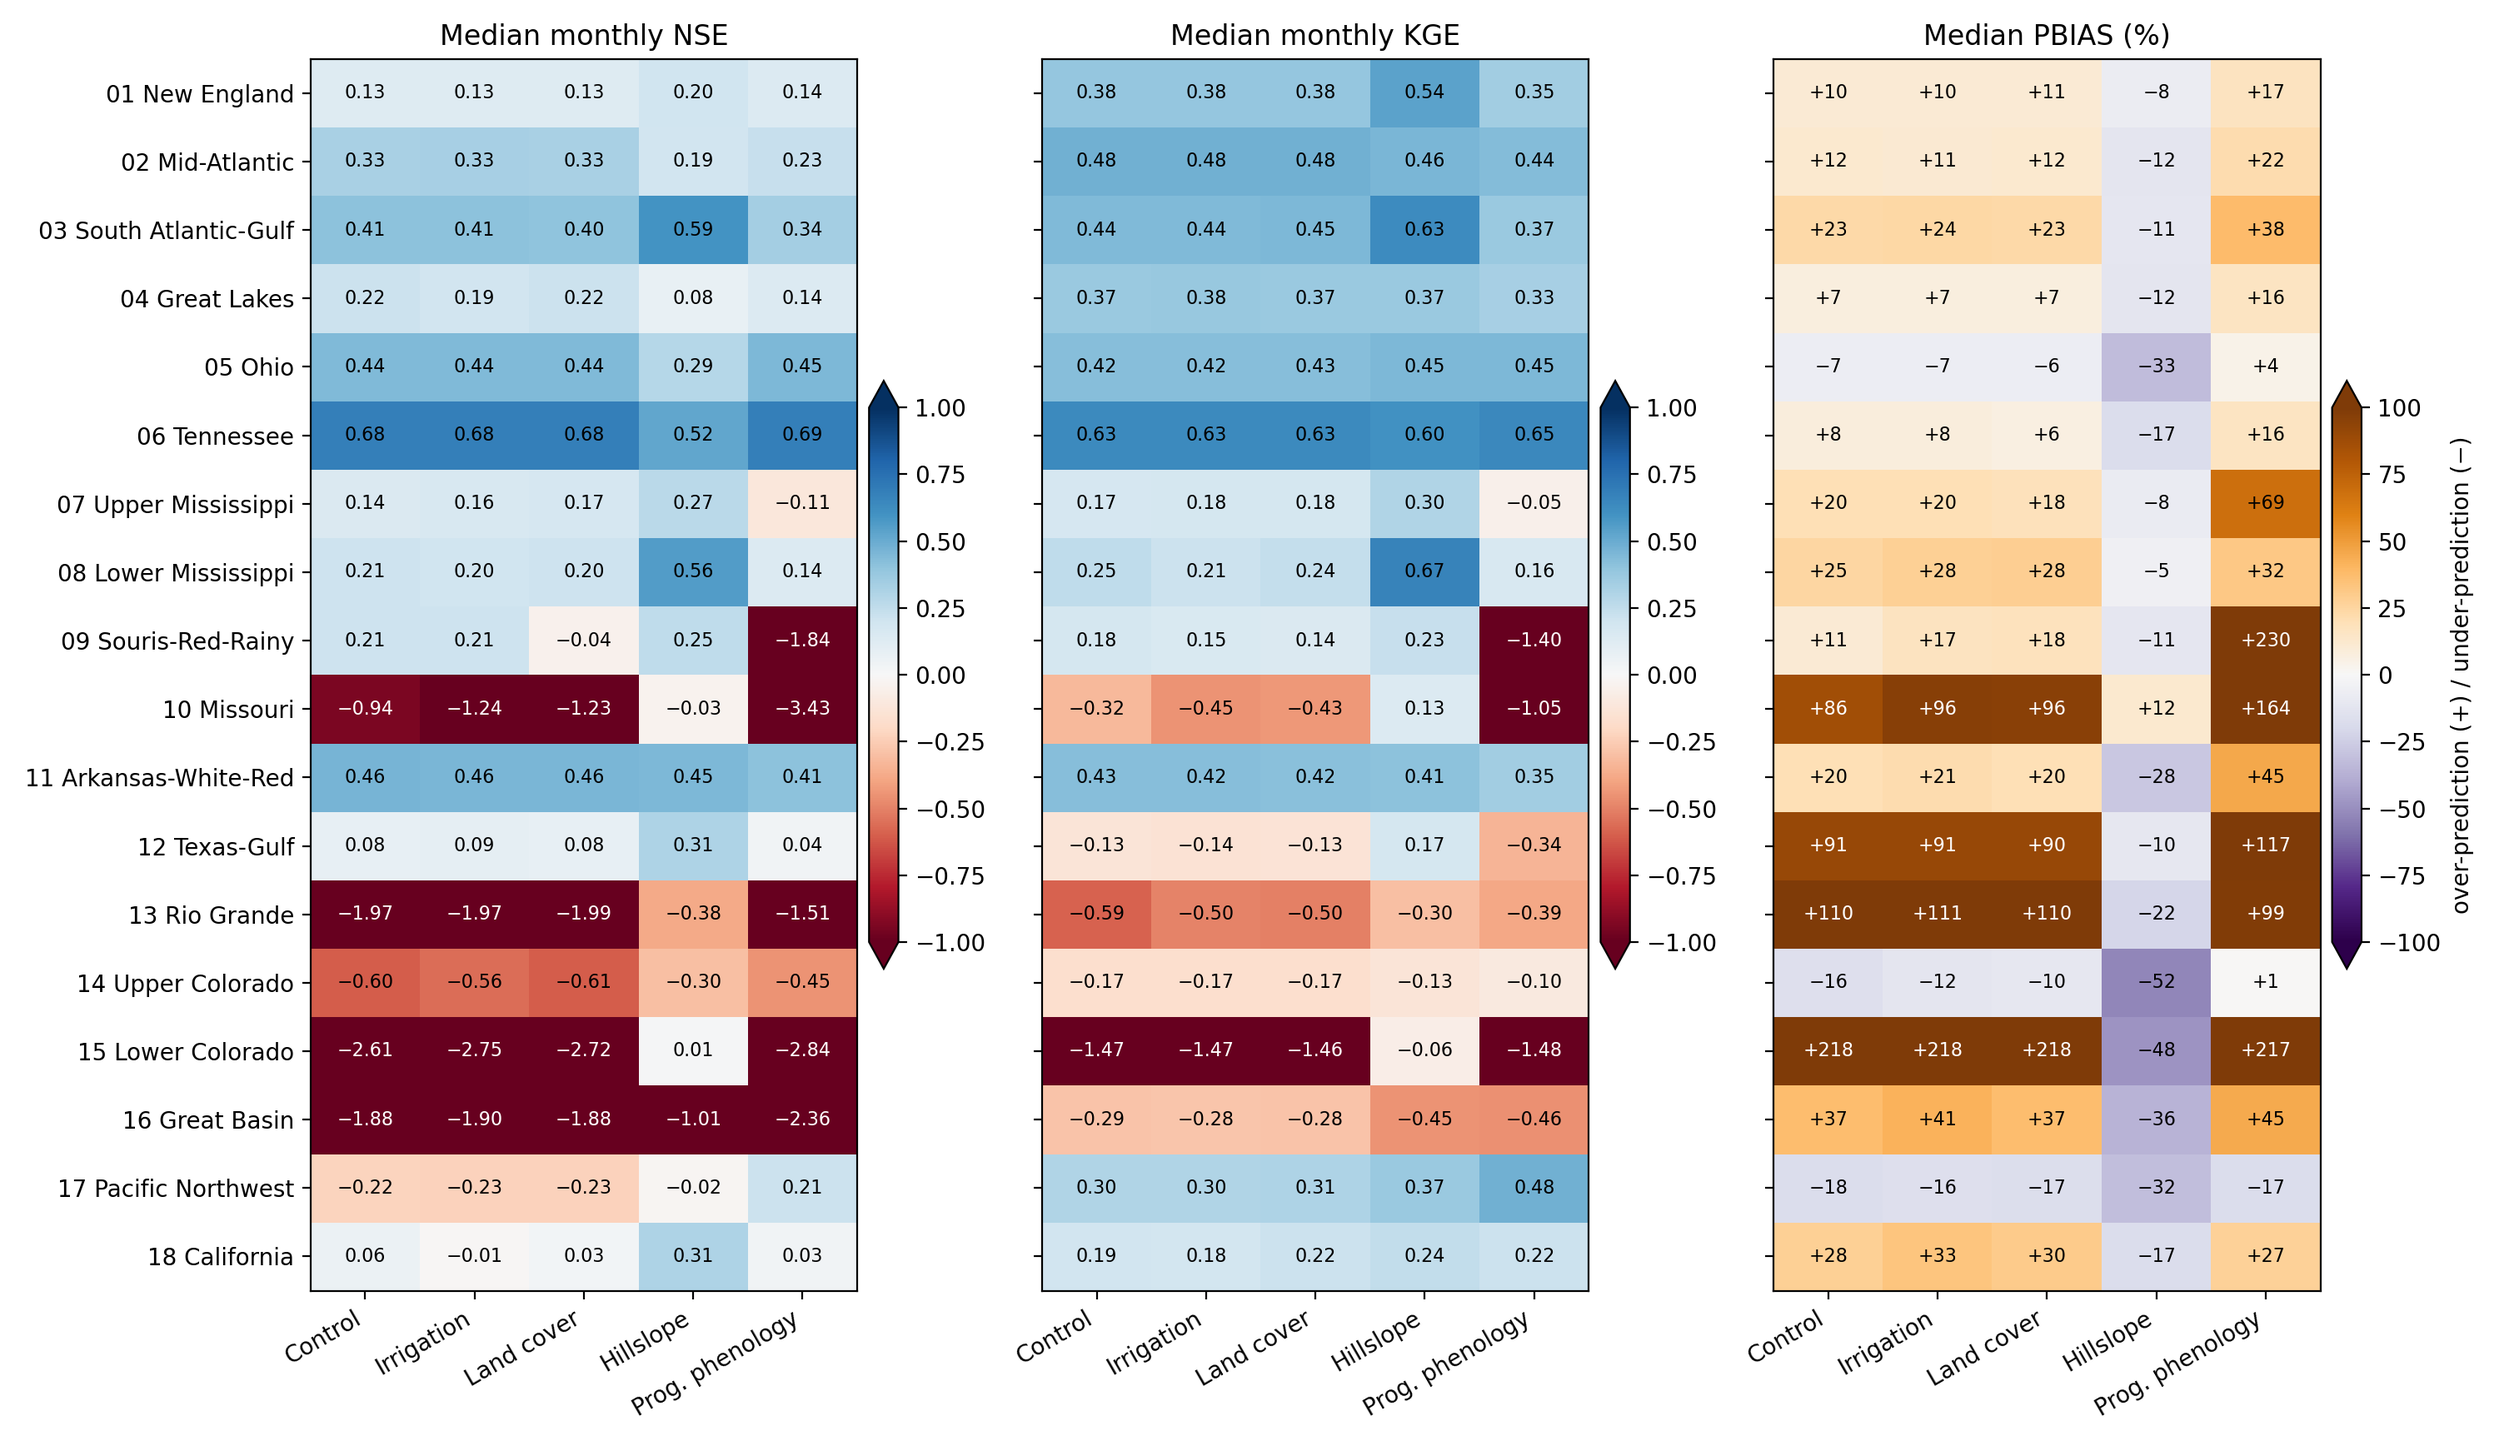
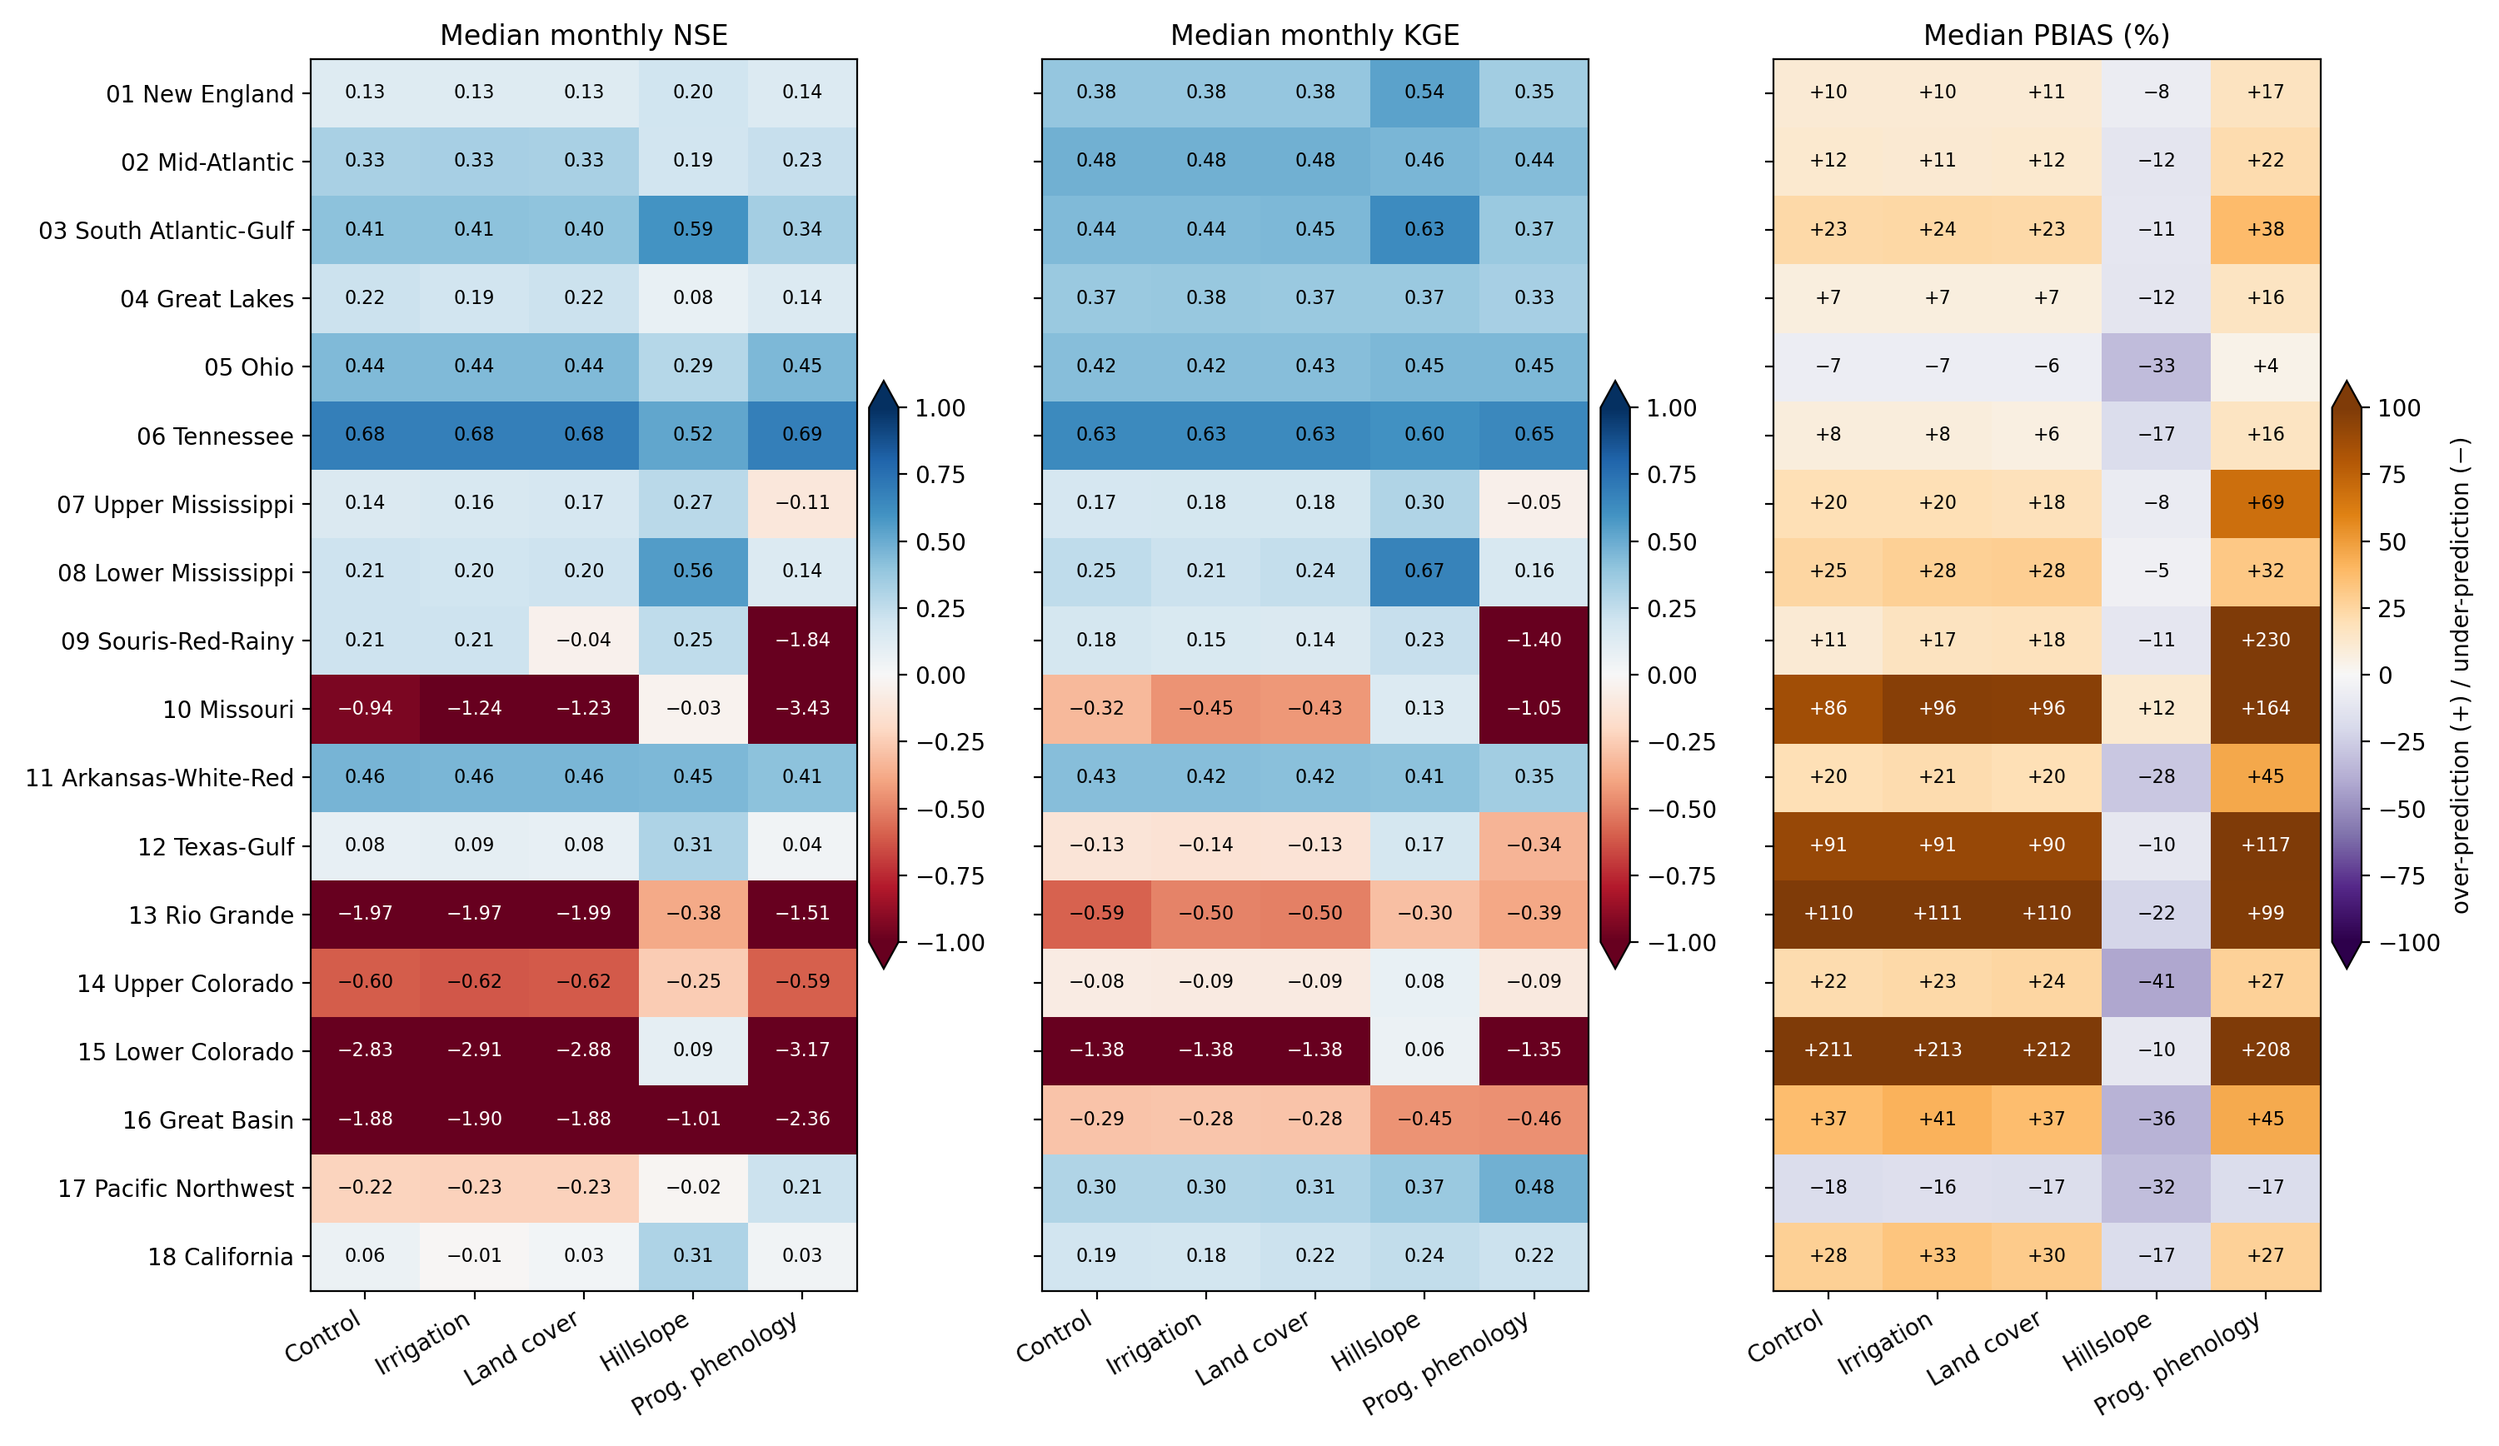
docs: include the 29 USBR_Colorado gauges in the reported results
Numbers recomputed from the regenerated eval CSVs (2,286 evaluated gauges,
was 2,257); the same calculation on the previous CSVs reproduces the old
tables exactly.

- results.md: medians, gauge counts, better/worse tables and text. Land cover
  vs control is now -0.012 (reworded to "against their baselines"); Lower
  Colorado joins the prog_phenology losses; Upper Colorado drops from its gains.
- streamflow_evaluation_method.md: daily file has 2,282 sites; monthly file
  supplies the 29 USBR Colorado gauges.
- HUC02 figures and huc02_summary.csv regenerated with report_huc02.py
  (only HUC 14 and 15 change).

Per-gauge maps from the dashboard are not yet updated.

Changed region(s): [[0.713, 0.6532, 0.93, 0.7776], [0.527, 0.6532, 0.62, 0.7465], [0.279, 0.6532, 0.341, 0.7154]]

diff --git a/docs/analysis/results.md b/docs/analysis/results.md
@@ -1,7 +1,7 @@
 (results)=
 # Results
 
-The control reaches a median monthly NSE of 0.106 across 2,257 gauges. Hillslope hydrology raises it to 0.219 and prognostic phenology lowers it to 0.067; irrigation and evolving land cover change it by less than 0.01.
+The control reaches a median monthly NSE of 0.098 across 2,286 gauges. Hillslope hydrology raises it to 0.215 and prognostic phenology lowers it to 0.060; irrigation and evolving land cover each change it by less than 0.01 against their baselines.
 
 ## Control baseline
 
@@ -29,7 +29,7 @@ abs(PBIAS) at each gauge, control (dashboard; scale 0 to 100%). The map shows th
 
 ## Configuration sensitivities
 
-Hillslope hydrology is the only option that improves streamflow skill substantially: median monthly NSE rises from 0.106 to 0.219 and KGE from 0.251 to 0.348. Prognostic phenology lowers skill on all three metrics, and irrigation and evolving land cover change it by amounts mostly within the materiality threshold.
+Hillslope hydrology is the only option that improves streamflow skill substantially: median monthly NSE rises from 0.098 to 0.215 and KGE from 0.246 to 0.349. Prognostic phenology lowers skill on all three metrics, and irrigation and evolving land cover change it by amounts mostly within the materiality threshold.
 
 Each contrast changes one option against the right baseline (spinup history also differs by configuration; see [Lessons, caveats and future work](#lessons)):
 
@@ -40,28 +40,28 @@ Each contrast changes one option against the right baseline (spinup history also
 | Hillslope | hillslope_eval − control | hillslope hydrology |
 | Phenology | prog_phenology − control | prognostic (BGC) vs satellite phenology |
 
-Medians use 2,257 gauges (2,256 for KGE and correlation: the Swan River at East Patchogue, NY has zero simulated flow, so KGE is undefined there).
+Medians use 2,286 gauges (2,285 for KGE and correlation: the Swan River at East Patchogue, NY has zero simulated flow, so KGE is undefined there).
 
 **Summary across gauges**
 
-| Configuration | Median NSE | Median NSE, ≥ 60 months (n = 2,128) | Median KGE | Median PBIAS | Median abs(PBIAS) | Median correlation |
+| Configuration | Median NSE | Median NSE, ≥ 60 months (n = 2,157) | Median KGE | Median PBIAS | Median abs(PBIAS) | Median correlation |
 |---|---|---|---|---|---|---|
-| control | 0.106 | 0.109 | 0.251 | +13.2% | 28.1% | 0.642 |
-| irrigation_on | 0.106 | 0.109 | 0.249 | +15.0% | 28.2% | 0.643 |
-| evolving_landcover | 0.097 | 0.099 | 0.253 | +13.7% | 28.1% | 0.639 |
-| hillslope_eval | 0.219 | 0.222 | 0.348 | −17.5% | 32.2% | 0.712 |
-| prog_phenology | 0.067 | 0.076 | 0.215 | +30.7% | 40.5% | 0.680 |
+| control | 0.098 | 0.101 | 0.246 | +13.9% | 28.5% | 0.638 |
+| irrigation_on | 0.095 | 0.099 | 0.245 | +15.2% | 28.5% | 0.639 |
+| evolving_landcover | 0.086 | 0.088 | 0.251 | +14.7% | 28.6% | 0.636 |
+| hillslope_eval | 0.215 | 0.221 | 0.349 | −17.4% | 32.1% | 0.711 |
+| prog_phenology | 0.060 | 0.063 | 0.210 | +31.3% | 41.0% | 0.677 |
 
 **Gauges improved vs baseline** (better / worse; the rest unchanged)
 
 | Contrast | NSE, strict | NSE, material | KGE, strict | KGE, material | abs(PBIAS), strict | abs(PBIAS), material |
 |---|---|---|---|---|---|---|
-| Irrigation vs control | 942 / 1,312 | 222 / 574 | 1,056 / 1,200 | 188 / 441 | 1,024 / 1,230 | 272 / 527 |
-| Land cover vs irrigation_on | 1,238 / 1,016 | 547 / 414 | 1,257 / 999 | 379 / 300 | 1,107 / 1,147 | 445 / 394 |
-| Hillslope vs control | 1,352 / 902 | 1,309 / 859 | 1,412 / 844 | 1,365 / 776 | 1,068 / 1,186 | 1,049 / 1,156 |
-| Prog. phenology vs control | 924 / 1,330 | 835 / 1,235 | 858 / 1,398 | 756 / 1,310 | 665 / 1,589 | 601 / 1,513 |
+| Irrigation vs control | 943 / 1,340 | 222 / 599 | 1,057 / 1,228 | 188 / 464 | 1,027 / 1,256 | 274 / 552 |
+| Land cover vs irrigation_on | 1,262 / 1,021 | 569 / 419 | 1,282 / 1,003 | 383 / 302 | 1,131 / 1,152 | 448 / 397 |
+| Hillslope vs control | 1,380 / 903 | 1,337 / 860 | 1,438 / 847 | 1,391 / 779 | 1,092 / 1,191 | 1,072 / 1,161 |
+| Prog. phenology vs control | 934 / 1,349 | 845 / 1,254 | 867 / 1,418 | 765 / 1,329 | 671 / 1,612 | 607 / 1,536 |
 
-**Irrigation.** Irrigation leaves the median NSE at 0.106 and raises the median PBIAS from +13.2% to +15.0%. 796 of 2,257 gauges change materially, and losses outnumber gains (222 better, 574 worse in NSE). The losses concentrate in the Missouri (28 / 135), the Pacific Northwest (27 / 147), Texas-Gulf (6 / 55) and California (10 / 49); the Missouri median PBIAS rises from +86% to +96%.
+**Irrigation.** Irrigation lowers the median NSE slightly (0.098 to 0.095) and raises the median PBIAS from +13.9% to +15.2%. 821 of 2,286 gauges change materially, and losses outnumber gains (222 better, 599 worse in NSE). The losses concentrate in the Missouri (28 / 135), the Pacific Northwest (27 / 147), Texas-Gulf (6 / 55) and California (10 / 49); the Missouri median PBIAS rises from +86% to +96%.
 
 ```{figure} ../figures/dnse_irrigation_on_minus_control.png
 :alt: Change in monthly NSE, irrigation_on − control
@@ -69,7 +69,7 @@ Medians use 2,257 gauges (2,256 for KGE and correlation: the Swan River at East 
 Change in monthly NSE at each gauge, irrigation_on − control. Blue is better; colours are clipped at ±0.3.
 ```
 
-**Land cover.** Against irrigation_on, evolving land cover lowers the median NSE from 0.106 to 0.097 even though more gauges improve than degrade (547 better, 414 worse in NSE). Gains are in the Pacific Northwest (169 / 19), California (50 / 15) and the Great Basin (26 / 9). Losses are in the Missouri (80 / 93), the Mid-Atlantic (33 / 54), South Atlantic-Gulf (25 / 38) and Souris-Red-Rainy, where the median NSE falls from 0.208 to −0.041.
+**Land cover.** Against irrigation_on, evolving land cover lowers the median NSE from 0.095 to 0.086 even though more gauges improve than degrade (569 better, 419 worse in NSE). Gains are in the Pacific Northwest (169 / 19), California (50 / 15) and the Great Basin (26 / 9). Losses are in the Missouri (80 / 93), the Mid-Atlantic (33 / 54), South Atlantic-Gulf (25 / 38) and Souris-Red-Rainy, where the median NSE falls from 0.208 to −0.041.
 
 ```{figure} ../figures/dnse_evolving_landcover_minus_irrigation_on.png
 :alt: Change in monthly NSE, evolving_landcover − irrigation_on
@@ -77,7 +77,7 @@ Change in monthly NSE at each gauge, irrigation_on − control. Blue is better; 
 Change in monthly NSE at each gauge, evolving_landcover − irrigation_on. Blue is better; colours are clipped at ±0.3.
 ```
 
-**Hillslope hydrology.** Hillslope roughly doubles the median NSE (0.106 to 0.219) and raises median KGE from 0.251 to 0.348 and median correlation from 0.642 to 0.712. NSE is materially better at 1,309 gauges and worse at 859.
+**Hillslope hydrology.** Hillslope roughly doubles the median NSE (0.098 to 0.215) and raises median KGE from 0.246 to 0.349 and median correlation from 0.638 to 0.711. NSE is materially better at 1,337 gauges and worse at 860.
 
 ```{figure} ../figures/dnse_hillslope_eval_minus_control.png
 :alt: Change in monthly NSE, hillslope_eval − control
@@ -85,12 +85,12 @@ Change in monthly NSE at each gauge, evolving_landcover − irrigation_on. Blue 
 Change in monthly NSE at each gauge, hillslope_eval − control. Blue is better; colours are clipped at ±0.3.
 ```
 
-- **Median PBIAS is lower in every HUC02 region.** The median PBIAS flips from +13.2% to −17.5%. The median abs(PBIAS) rises from 28.1% to 32.2%, and the abs(PBIAS) count leans worse (1,049 / 1,156).
-- **Gains are largest where control over-predicts.** Missouri NSE goes from −0.94 to −0.03 (PBIAS +86% to +12%), Lower Colorado from −2.61 to 0.01, Rio Grande from −1.97 to −0.38, and Lower Mississippi from 0.21 to 0.56.
+- **Median PBIAS is lower in every HUC02 region.** The median PBIAS flips from +13.9% to −17.4%. The median abs(PBIAS) rises from 28.5% to 32.1%, and the abs(PBIAS) count leans worse (1,072 / 1,161).
+- **Gains are largest where control over-predicts.** Missouri NSE goes from −0.94 to −0.03 (PBIAS +86% to +12%), Lower Colorado from −2.83 to 0.09, Rio Grande from −1.97 to −0.38, and Lower Mississippi from 0.21 to 0.56.
 - **On the Missouri mainstem**, Hermann improves from NSE −0.39 to 0.59 and PBIAS +63.4% to +1.5%. Fort Benton, MT stays poor (NSE −8.40 to −8.01) although its PBIAS falls from +97.8% to +25.0%.
 - **Losses are where control already has small bias**, mostly along the Appalachians in the map: Ohio NSE falls from 0.44 to 0.29 (PBIAS −6.8% to −32.5%), Tennessee from 0.68 to 0.52, Mid-Atlantic from 0.33 to 0.19 and Great Lakes from 0.22 to 0.08.
 
-**Prognostic phenology.** prog_phenology lowers skill on all three metrics: median NSE falls to 0.067, KGE to 0.215, and median PBIAS rises to +30.7%. NSE is materially worse at 1,235 gauges and better at 835; abs(PBIAS) is worse at 1,513. Median correlation rises from 0.642 to 0.680.
+**Prognostic phenology.** prog_phenology lowers skill on all three metrics: median NSE falls to 0.060, KGE to 0.210, and median PBIAS rises to +31.3%. NSE is materially worse at 1,254 gauges and better at 845; abs(PBIAS) is worse at 1,536. Median correlation rises from 0.638 to 0.677.
 
 ```{figure} ../figures/dnse_prog_phenology_minus_control.png
 :alt: Change in monthly NSE, prog_phenology − control
@@ -98,8 +98,8 @@ Change in monthly NSE at each gauge, hillslope_eval − control. Blue is better;
 Change in monthly NSE at each gauge, prog_phenology − control. Blue is better; colours are clipped at ±0.3.
 ```
 
-- **Largest losses by median NSE change:** the Missouri (median NSE −0.94 to −3.43, PBIAS +86% to +164%; Hermann NSE −3.33, PBIAS +134%), Souris-Red-Rainy (0.21 to −1.84, PBIAS +230%), the Great Basin (−1.88 to −2.36) and the Upper Mississippi (0.14 to −0.11).
-- **Gains by median NSE change:** the Rio Grande (−1.97 to −1.51), the Pacific Northwest (NSE −0.22 to 0.21, KGE 0.30 to 0.48) and the Upper Colorado (−0.60 to −0.45).
+- **Largest losses by median NSE change:** the Missouri (median NSE −0.94 to −3.43, PBIAS +86% to +164%; Hermann NSE −3.33, PBIAS +134%), Souris-Red-Rainy (0.21 to −1.84, PBIAS +230%), the Great Basin (−1.88 to −2.36), the Lower Colorado (−2.83 to −3.17) and the Upper Mississippi (0.14 to −0.11).
+- **Gains by median NSE change:** the Rio Grande (−1.97 to −1.51) and the Pacific Northwest (NSE −0.22 to 0.21, KGE 0.30 to 0.48).
 
 **By region (HUC02).** Median monthly NSE, KGE and PBIAS per configuration, and gauges materially better / worse in NSE per contrast.
 

diff --git a/docs/analysis/streamflow_evaluation_method.md b/docs/analysis/streamflow_evaluation_method.md
@@ -5,9 +5,10 @@ Monthly routed streamflow at each gauge's MERIT reach is compared with observed 
 
 **Observations**
 
-- Daily multi-agency streamflow, 2,311 sites (flow_multi_agency_1965-10-01_2024-09-30.nc, m³/s), resampled to monthly means.
-- A crosswalk (flow_multi_agency_all_meta.csv) links each gauge to its MERIT reach (merit_reach_id) and labels it naturalized or observed.
-- 2,257 of the 2,311 gauges have overlapping records and are evaluated.
+- Daily multi-agency streamflow, 2,282 sites (flow_multi_agency_1965-10-01_2024-09-30.nc, m³/s), resampled to monthly means.
+- Monthly naturalized streamflow for the 29 USBR Colorado River Basin gauges that are not in the daily file (flow_multi_agency_1965-10_2024-09_month.nc, m³/s, one value per month). If a gauge were in both files, the daily record would be used.
+- A crosswalk (flow_multi_agency_all_meta.csv) links each of the 2,311 gauges to its MERIT reach (merit_reach_id) and labels it naturalized or observed.
+- 2,286 of the 2,311 gauges have at least 12 months of overlapping record and are evaluated.
 
 **Matching model and observations**
 
